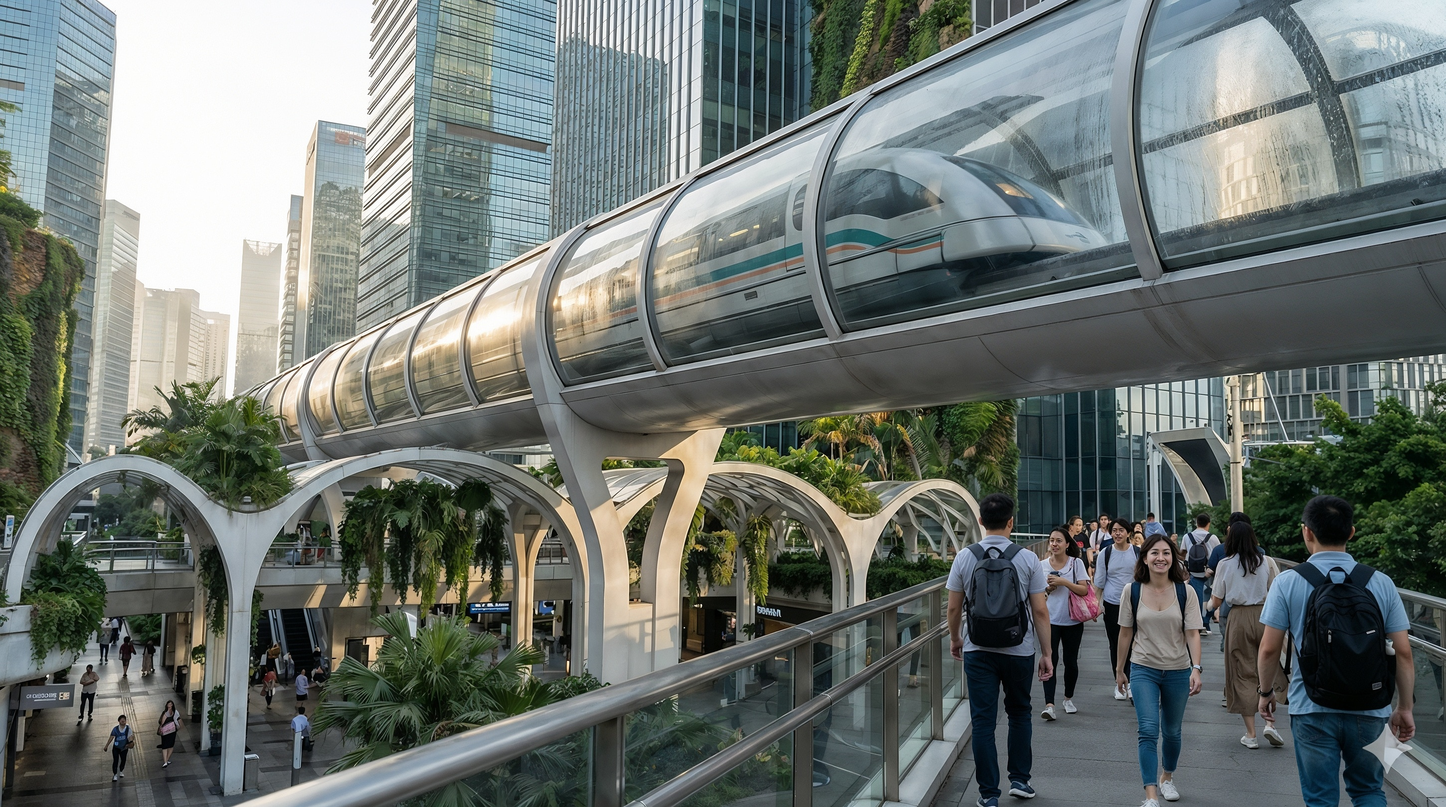
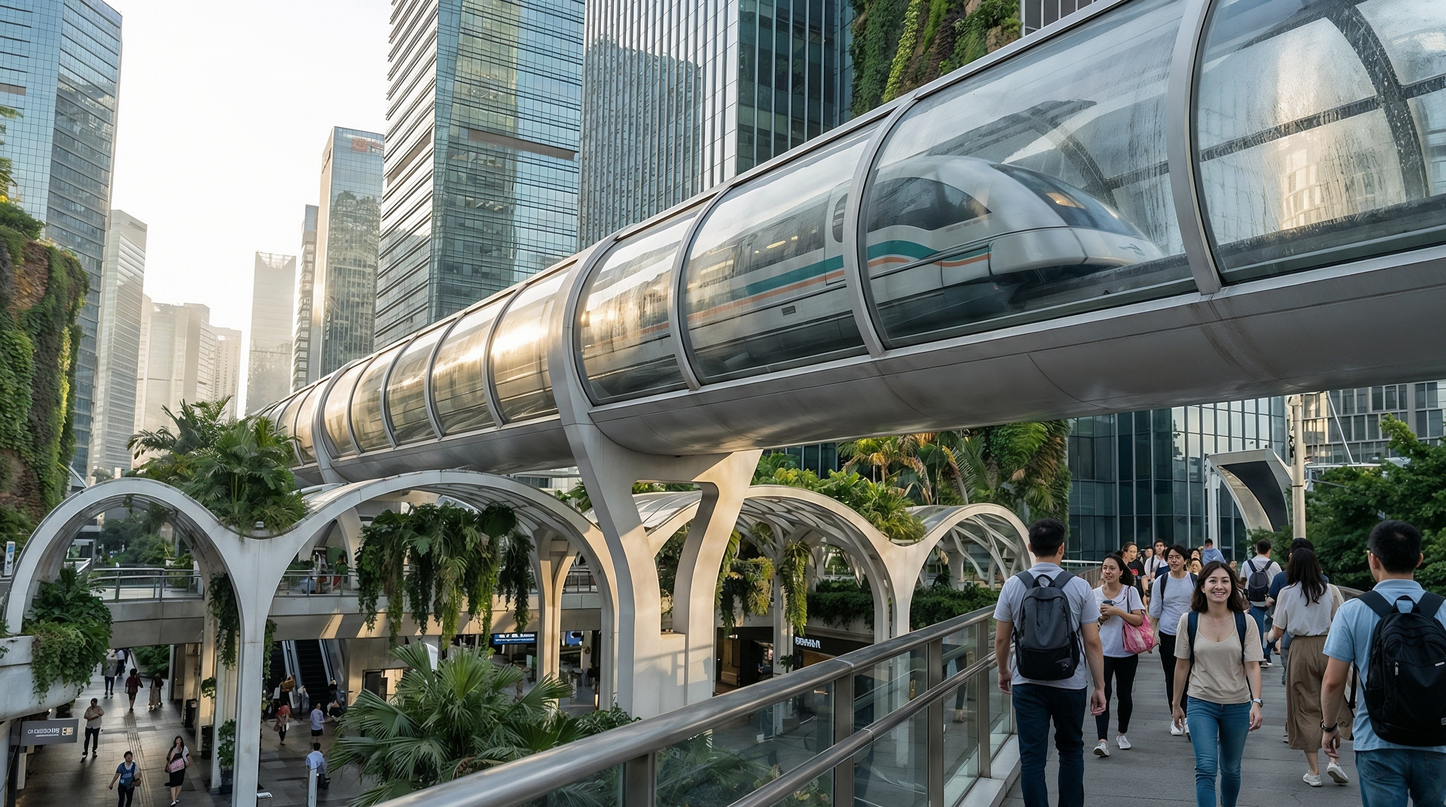
Images

diff --git a/diplomacy.html b/diplomacy.html
@@ -104,7 +104,7 @@
     </nav>
 
     <!-- Hero Section -->
-    <section class="hero" style="background: url('https://images.unsplash.com/photo-1529107386315-e1a2ed48a620?q=80&w=2070') center/cover no-repeat;">
+    <section class="hero" style="background: url('/images/UniversalUpscaler_daeff1a7-495d-4412-80d7-a0eacf6e3ac6.jpg') center/cover no-repeat;">
         <div class="hero-content">
             <h1>Diplomatic Relations</h1>
             <p class="hero-description liquid">
@@ -117,20 +117,20 @@
             </p>
             <div class="hero-stats">
                 <div class="stat-item liquid">
-                    <span class="stat-number">2025</span>
-                    <span class="stat-label">NATO Member</span>
+                    <span class="stat-number">1999</span>
+                    <span class="stat-label">United Nateins</span>
                 </div>
                 <div class="stat-item liquid">
-                    <span class="stat-number">1999</span>
-                    <span class="stat-label">UN Joined</span>
+                    <span class="stat-number">2007</span>
+                    <span class="stat-label">American Union</span>
                 </div>
                 <div class="stat-item liquid">
                     <span class="stat-number">2018</span>
                     <span class="stat-label">World Government</span>
                 </div>
                 <div class="stat-item liquid">
-                    <span class="stat-number">59</span>
-                    <span class="stat-label">TAFTA Nations</span>
+                    <span class="stat-number">2025</span>
+                    <span class="stat-label">NATO Member</span>
                 </div>
             </div>
         </div>
